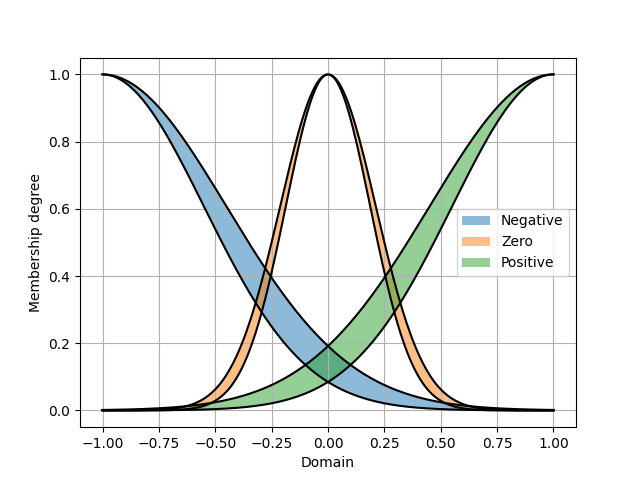
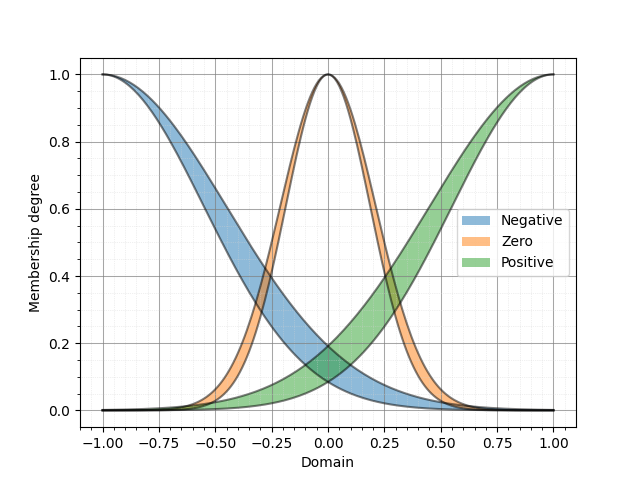
Updating examples and corresponded section in the readme file ...

diff --git a/examples/ex_5.py b/examples/ex_5.py
@@ -184,7 +184,9 @@ plt.plot(tt, y_it2fpid_NT[:,0], label="NT", linewidth=1.)
 plt.legend()
 plt.xlabel("Time (s)")
 plt.ylabel("System response")
-plt.grid(True)
+plt.grid(which="major", linestyle="-", linewidth=0.75, color="gray", alpha=0.7)
+plt.minorticks_on() 
+plt.grid(which="minor", linestyle=":", linewidth=0.5, color="lightgray", alpha=0.7)
 plt.savefig("delay_pid_case1_comp.pdf", format="pdf", dpi=300, bbox_inches="tight")
 plt.show()
 

diff --git a/README.md b/README.md
@@ -135,7 +135,7 @@ So, please update your PyIT2FLS to the latest version.
 
 * [Ex5](https://github.com/Haghrah/PyIT2FLS/blob/master/examples/ex_5.py): Designing Interval Type 2 Fuzzy PID (IT2FPID) controller for a time-delay linear system.
 
-
+<img src="https://raw.githubusercontent.com/Haghrah/PyIT2FLS/master/examples/images/5_1.png" width="200"> <img src="https://raw.githubusercontent.com/Haghrah/PyIT2FLS/master/examples/images/5_2.png" width="200"> <img src="https://raw.githubusercontent.com/Haghrah/PyIT2FLS/master/examples/images/5_3.png" width="200"> 
 
 * [Ex6](https://github.com/Haghrah/PyIT2FLS/blob/master/examples/ex_6.py): Creating and plotting some different types of interval type two fuzzy sets.
 
@@ -148,11 +148,11 @@ So, please update your PyIT2FLS to the latest version.
 
 * [Ex7](https://github.com/Haghrah/PyIT2FLS/blob/master/examples/ex_7.py): Defining a simple multi-input multi-output IT2 TSK FLS.
 
-<img src="https://raw.githubusercontent.com/Haghrah/PyIT2FLS/master/examples/images/8_1.png" width="400"> 
+<img src="https://raw.githubusercontent.com/Haghrah/PyIT2FLS/master/examples/images/8_1.png" width="600"> 
 
-<img src="https://raw.githubusercontent.com/Haghrah/PyIT2FLS/master/examples/images/8_2.png" width="400"> 
+<img src="https://raw.githubusercontent.com/Haghrah/PyIT2FLS/master/examples/images/8_2.png" width="600"> 
 
-<img src="https://raw.githubusercontent.com/Haghrah/PyIT2FLS/master/examples/images/8_3.png" width="200"> <img src="https://raw.githubusercontent.com/Haghrah/PyIT2FLS/master/examples/images/8_4.png" width="200"> 
+<img src="https://raw.githubusercontent.com/Haghrah/PyIT2FLS/master/examples/images/8_3.png" width="300"> <img src="https://raw.githubusercontent.com/Haghrah/PyIT2FLS/master/examples/images/8_4.png" width="300"> 
 
 
 * [Ex8](https://github.com/Haghrah/PyIT2FLS/blob/master/examples/ex_8.py): Defining a multi-input multi-output IT2 TSK FLS and plotting the 3D resulting output planes.
@@ -221,33 +221,3 @@ So, please update your PyIT2FLS to the latest version.
 
 * [Ex24](https://github.com/Haghrah/PyIT2FLS/blob/master/examples/ex_24.py): 
 
-
-### Some output plots
-
-* Ex4:
-
-<img src="https://raw.githubusercontent.com/Haghrah/PyIT2FLS/master/examples/images/4_2.png" width="256"> <img src="https://raw.githubusercontent.com/Haghrah/PyIT2FLS/master/examples/images/4_4.png" width="256">
-
-* Ex5:
-
-<img src="https://raw.githubusercontent.com/Haghrah/PyIT2FLS/master/examples/images/5_1.png" width="128"> <img src="https://raw.githubusercontent.com/Haghrah/PyIT2FLS/master/examples/images/5_2.png" width="128"> <img src="https://raw.githubusercontent.com/Haghrah/PyIT2FLS/master/examples/images/5_3.png" width="128"> <img src="https://raw.githubusercontent.com/Haghrah/PyIT2FLS/master/examples/images/5_4.png" width="128">
-
-* Ex6:
-
-<img src="https://raw.githubusercontent.com/Haghrah/PyIT2FLS/master/examples/images/6_1.png" width="128"> <img src="https://raw.githubusercontent.com/Haghrah/PyIT2FLS/master/examples/images/6_2.png" width="128"> <img src="https://raw.githubusercontent.com/Haghrah/PyIT2FLS/master/examples/images/6_3.png" width="128"> <img src="https://raw.githubusercontent.com/Haghrah/PyIT2FLS/master/examples/images/6_4.png" width="128">
-
-<img src="https://raw.githubusercontent.com/Haghrah/PyIT2FLS/master/examples/images/6_5.png" width="128"> <img src="https://raw.githubusercontent.com/Haghrah/PyIT2FLS/master/examples/images/6_6.png" width="128"> <img src="https://raw.githubusercontent.com/Haghrah/PyIT2FLS/master/examples/images/6_7.png" width="128"> <img src="https://raw.githubusercontent.com/Haghrah/PyIT2FLS/master/examples/images/6_8.png" width="128">
-
-* Ex9: 
-
-<img src="https://raw.githubusercontent.com/Haghrah/PyIT2FLS/master/examples/images/9_1.png" width="512">
-
-<img src="https://raw.githubusercontent.com/Haghrah/PyIT2FLS/master/examples/images/9_2.png" width="512">
-
-<img src="https://raw.githubusercontent.com/Haghrah/PyIT2FLS/master/examples/images/IT2TSKFLSY1.png" width="256"> <img src="https://raw.githubusercontent.com/Haghrah/PyIT2FLS/master/examples/images/IT2TSKFLSY2.png" width="256">
-
-* Ex10: 
-
-<img src="https://raw.githubusercontent.com/Haghrah/PyIT2FLS/master/examples/images/10_1.png" width="256"> <img src="https://raw.githubusercontent.com/Haghrah/PyIT2FLS/master/examples/images/10_3.png" width="256">
-
-<img src="https://raw.githubusercontent.com/Haghrah/PyIT2FLS/master/examples/images/10_5.png" width="256"> <img src="https://raw.githubusercontent.com/Haghrah/PyIT2FLS/master/examples/images/10_6.png" width="256">
